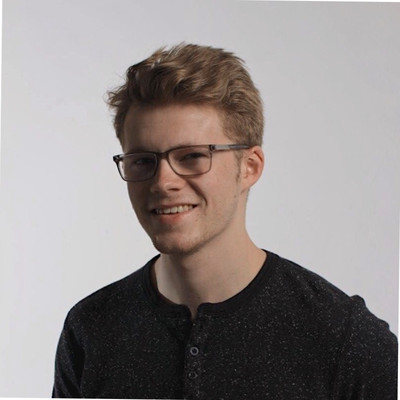
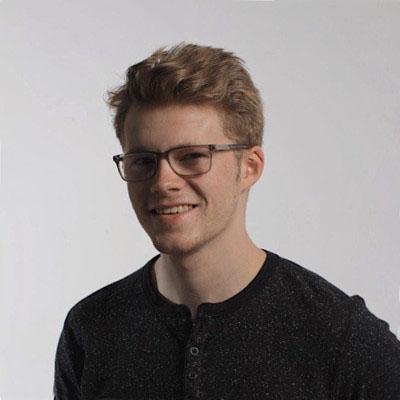
photo improvements

diff --git a/dcf/style.css b/dcf/style.css
@@ -85,24 +85,16 @@
   flex-grow: 1;
 }
 .career-month-overview .timeline .timeline-event .portrait {
-  padding: 25px 10px 15px;
+  padding: 25px 10px 10px;
 }
 .career-month-overview .timeline .timeline-event .left .portrait {
   text-align: right;
 }
 .career-month-overview .timeline .timeline-event .portrait img{
   flex-shrink: 1;
-  width: calc(0.4 * (100vw - 2 * var(--page-margin) - 120px));
   height: calc(0.4 * (100vw - 2 * var(--page-margin) - 120px));
-  max-width: 300px;
   max-height: 300px;
   object-fit: cover;
-}
-.career-month-overview .timeline .timeline-event .left .portrait img {
-  box-shadow: -25px -25px rgba(0, 0, 0, 0.2);
-}
-.career-month-overview .timeline .timeline-event .right .portrait img {
-  box-shadow: 25px -25px rgba(0, 0, 0, 0.2);
 }
 .career-month-overview .timeline .timeline-event .left .caption {
   text-align: right;
@@ -113,7 +105,7 @@
   font-weight: 300;
   font-size: 17px;
   color: var(--white);
-  opacity: 0.9;
+  opacity: 0.8;
 }
 .career-month-overview .timeline .timeline-event .heading {
   margin-bottom: 40px;

diff --git a/dcf/index.html b/dcf/index.html
@@ -170,7 +170,7 @@
             </div>
             <div class='content'>
               <p>
-                Every designer needs a good portfolio. Learn tips and tricks and get your portfolio reviewed by industry professionals from Twitter, Symsoft,&nbsp;etc...
+                Every designer needs a good portfolio. Learn tips and tricks and get your portfolio reviewed by industry professionals from Twitter, Symsoft, SkySlope and Excel Interpreting&nbsp;&&nbsp;Translating.
               </p>
             </div>
             <a class='callout-button' href='https://docs.google.com/forms/d/e/1FAIpQLSemcjelOUs51y82Ud8y34vPdokpfVUc8CpOp57wa7WtTwdCrw/viewform?usp=sf_link' target='_blank'>
